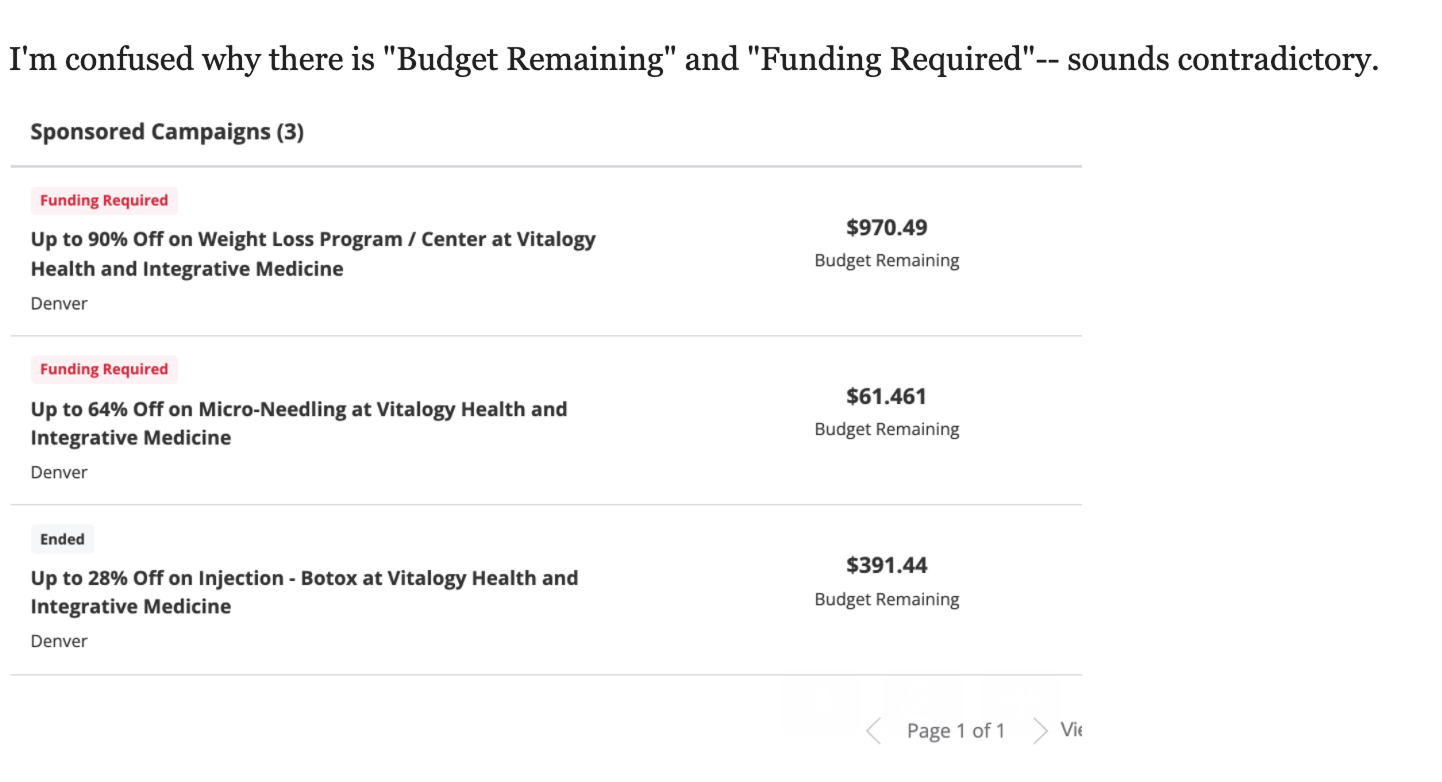
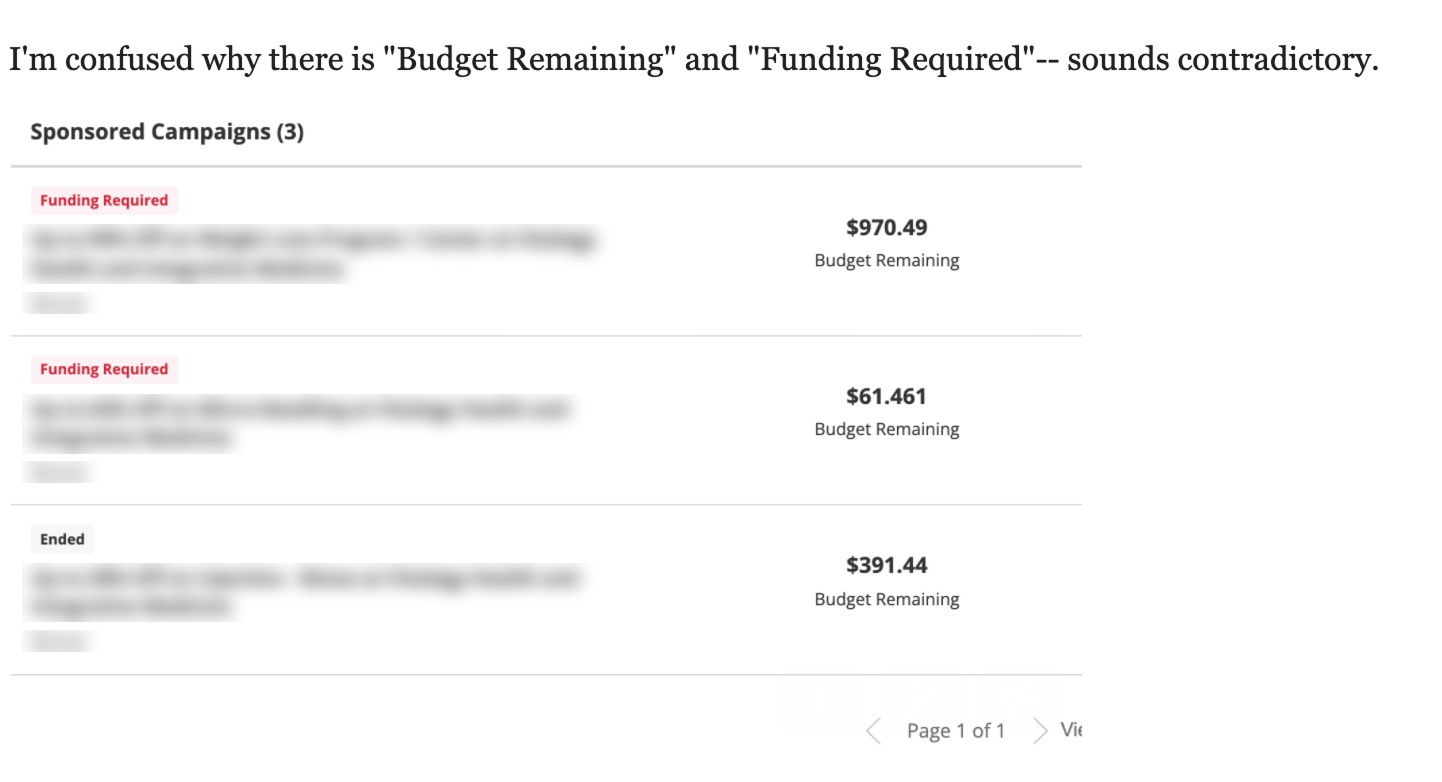
Groupon case study: blur merchant names, show conflicting numbers in Before, add decision tradeoff

Changed region(s): [[0.0, 0.2762, 0.4369, 0.399], [0.0, 0.7059, 0.4057, 0.8593], [0.0, 0.491, 0.4057, 0.6138]]

diff --git a/project-groupon.html b/project-groupon.html
@@ -123,7 +123,7 @@
             <div class="ba-col">
                 <span class="ba-tag before">Before: 2 conflicting numbers</span>
                 <div class="ba-image ba-image-large align-left">
-                    <img src="groupon-before-dashboard2.png" alt="Legacy Sponsored Campaigns Manage Funds view">
+                    <img src="groupon-before-conflict.png" alt="Legacy Sponsored Campaigns view showing a $0 Account Balance next to campaigns with budget remaining">
                 </div>
             </div>
             <div class="ba-col">
@@ -231,7 +231,7 @@
 
                 <p><strong>Alert before balance runs out.</strong> A funding alert notifies merchants when their balance is low, rather than letting a campaign go dark and forcing them to discover it after the fact.</p>
 
-                <p><strong>Teach the metrics, not just show them.</strong> The statistics modal explains what impressions, clicks, and ROAS actually mean for a merchant's budget, because raw numbers without context didn't build trust.</p>
+                <p><strong>Teach the metrics, one click away.</strong> Impressions, clicks, and ROAS meant little to merchants new to advertising, but spelling them out on the dashboard would have crowded the page for merchants who already knew them. I kept the definitions in a tooltip and a statistics modal instead, so the dashboard stays easy to scan and the explanation is there for anyone who goes looking. The cost is that a merchant who doesn't know to click can still miss it.</p>
             </div>
         </div>
     </section>
